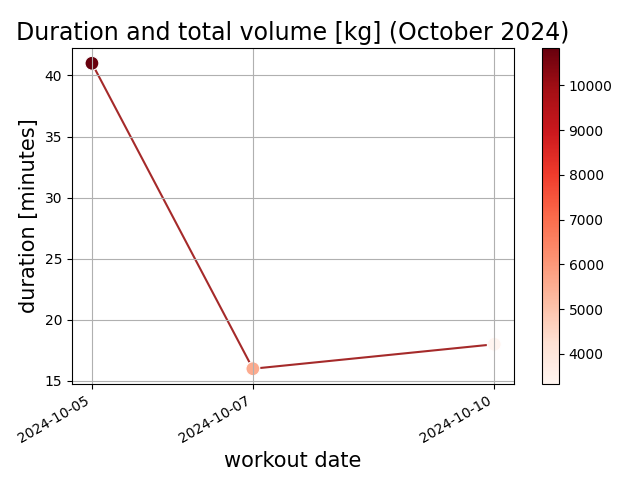
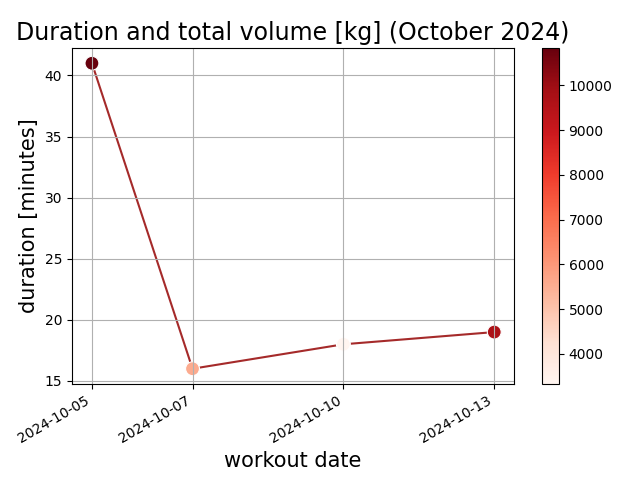
chore: add today's workout. Update config_loader. Remove unused code from insert module

diff --git a/src/helpers/config_loader.py b/src/helpers/config_loader.py
@@ -27,20 +27,25 @@ class ConfigLoader:
         """Loads configuration from a YAML file and replaces placeholders."""
         with open(file_path, "r") as rf:
             data = yaml.safe_load(rf)
+
             google_drive_data_path = (
                 data["google_drive_data_path"]
                 .replace("<USER>", user)
                 .replace("<EMAIL>", email)
             )
+
+            data["google_drive_data_path"] = google_drive_data_path
+
             data["real_workout_database"] = (
                 data["real_workout_database"]
                 .replace("<GOOGLE_DRIVE_DATA_PATH>", google_drive_data_path)
                 .replace("<ATHLETE>", athlete)
             )
+
         return data
 
 
-if __name__ == "__main__":
+def main():
     from pprint import pprint as pp
 
     env_vars = ConfigLoader.load_env_variables()
@@ -52,6 +57,9 @@ if __name__ == "__main__":
         "./.config/config.yml"
     )
 
-    file = config["real_workout_database"]
-
+    # file = config["real_workout_database"]
     pp(config)
+
+
+if __name__ == "__main__":
+    main()

diff --git a/src/CRUD/insert.py b/src/CRUD/insert.py
@@ -93,10 +93,7 @@ def insert_specific_log(date: str,
     """
 
     env_vars = ConfigLoader.load_env_variables()
-    # athlete=env_vars["athlete"]
-    # user=env_vars["user"]
-    # email=env_vars["email"]
-    # ic(athlete, user, email)
+
     config = ConfigLoader.load_config(
         athlete=env_vars["athlete"],
         user=env_vars["user"],
@@ -104,15 +101,6 @@ def insert_specific_log(date: str,
     )
 
     YEAR, MONTH = lookup.get_year_and_month(date)
-
-    # with open(".config/config.yml", "r") as rf:
-    #     DATA = yaml.load(rf, Loader=yaml.FullLoader)
-    # base_path = (
-    #     DATA["google_drive_data_path"]
-    #     # .replace("<ATHLETE>", athlete)
-    #     .replace("<USER>", user)
-    #     .replace("<EMAIL>", email)
-    # )
 
     base_path = config["google_drive_data_path"]
 

diff --git a/src/helpers/google_sheet.py b/src/helpers/google_sheet.py
@@ -72,8 +72,12 @@ def update_sheet() -> None:
     return
 
 
-if __name__ == "__main__":
+def main():
     # example: BODYWEIGHT sheet
     sheet_id = "1my1zqAWtkhWXDWsrNf-It_dr541o6C7MndMcHOpKiSs"
     sheet_title = "2023-2024"
     print(get_sheet(sheet_id, sheet_title))
+
+
+if __name__ == "__main__":
+    main()
